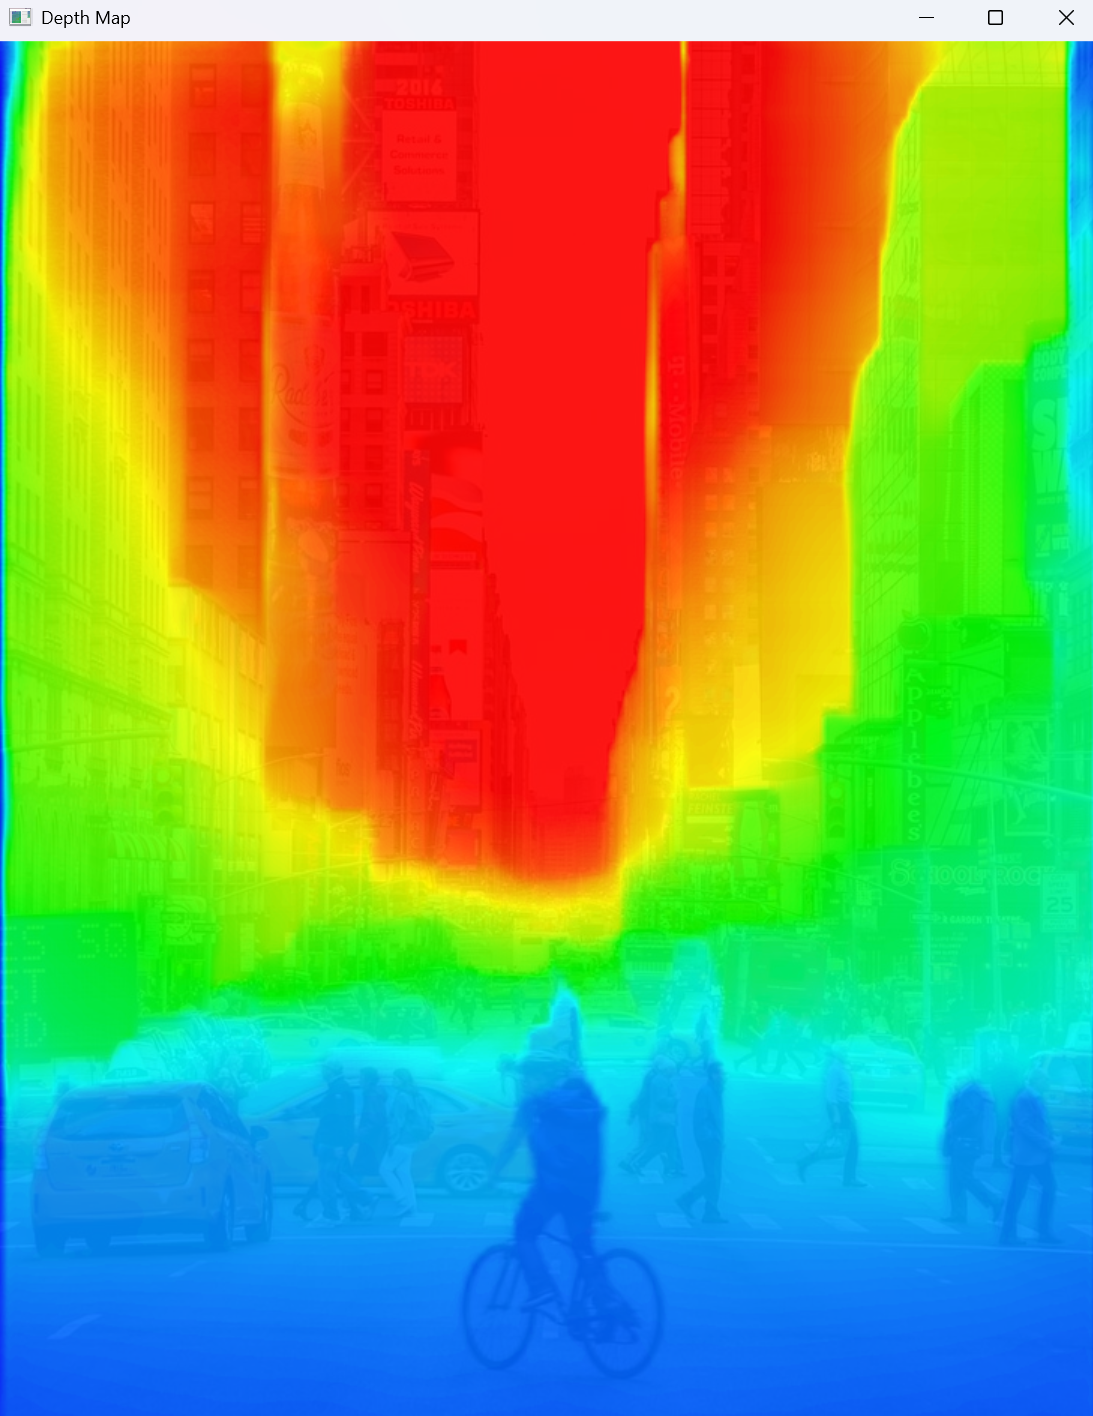
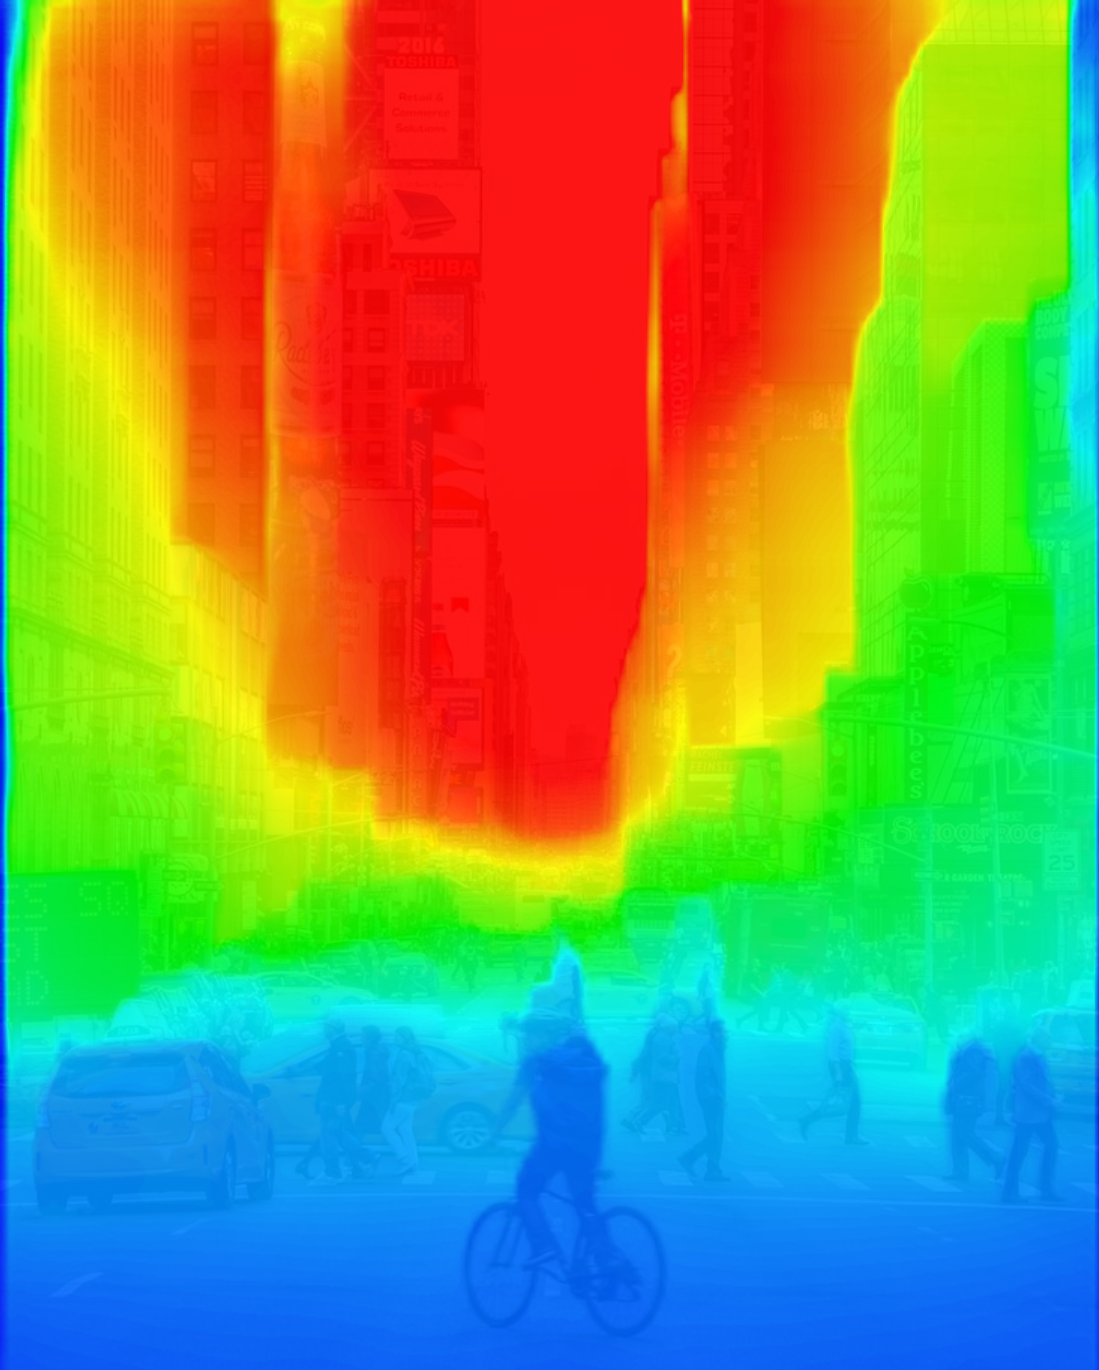
autoplot with opencv and to plot different colorpalette masks for depth estimation

diff --git a/08_depth_estimation_multi_color_mask.py b/08_depth_estimation_multi_color_mask.py
@@ -57,11 +57,12 @@ print("Normalized max:", depth_normalized.max())
 colored_depth_map = np.zeros_like(image)
 
 #lets make a colored gradient mask
-blue_region = (depth_normalized >= 0) & (depth_normalized <= 51) #so these are boolean masks with same shape as depth_normalized.with each element either True or False depending on whether the condition is satisfied or not. each mask target a different region of the depth map. blue is for closest object red for furthest yellow, green cyan in between.
-cyan_region = (depth_normalized >= 52) & (depth_normalized <= 102)
-green_region = (depth_normalized >= 103) & (depth_normalized <= 153)
-yellow_region = (depth_normalized >= 154) & (depth_normalized <= 204)
-red_region = (depth_normalized >= 205) & (depth_normalized <= 255)
+blue_region   = (depth_normalized >= 0)   & (depth_normalized <= 51) #so these are boolean masks with same shape as depth_normalized.with each element either True or False depending on whether the condition is satisfied or not. each mask target a different region of the depth map. blue is for closest object red for furthest yellow, green cyan in between.
+cyan_region   = (depth_normalized > 51)   & (depth_normalized <= 102)
+green_region  = (depth_normalized > 102)  & (depth_normalized <= 153)
+yellow_region = (depth_normalized > 153)  & (depth_normalized <= 204)
+red_region    = (depth_normalized > 204)  & (depth_normalized <= 255)
+
 # BLUE = [255, 0, 0]
 # CYAN = [255, 255, 0] here only green channel is being changed
 # GREEN = [0, 255, 0] here only blue channel is being changed
@@ -73,21 +74,22 @@ G = np.zeros_like(depth_normalized)
 R = np.zeros_like(depth_normalized)
 
 # Blue to Cyan transition
-G[blue_region] = depth_normalized[blue_region] * (255/51) # take the depth value where blue_region is True and select green channel pixels according to that blue region. The depth value is normalized from 0 to 51 so we multiply it by (255/51) to get the corresponding green channel value from 0 to 255
+G[blue_region] = depth_normalized[blue_region] * (255/51)# take the depth value where blue_region is True and select green channel pixels according to that blue region. The depth value is normalized from 0 to 51 so we multiply it by (255/51) to get the corresponding green channel value from 0 to 255
 B[blue_region] = 255
 R[blue_region] = 0
+
 # Cyan to Green transition
 G[cyan_region] = 255
-B[cyan_region] = 255 - (depth_normalized[cyan_region] - 52) * (255/51)  # I subtracted from 255 because it was transitoning from green to cyan
+B[cyan_region] = 255 - (depth_normalized[cyan_region] - 51) * (255/51) # I subtracted from 255 because it was transitoning from green to cyan
 R[cyan_region] = 0
 
-#Green to yellow transition
-G[green_region] = 255 
-B[green_region] = 0 
-R[green_region] = (depth_normalized[green_region] - 103) * (255/51)  
+# Green to Yellow transition
+G[green_region] = 255
+B[green_region] = 0
+R[green_region] = (depth_normalized[green_region] - 102) * (255/51)
 
 # Yellow to Red transition
-G[yellow_region] = 255 - (depth_normalized[yellow_region] - 154) * (255/51)
+G[yellow_region] = 255 - (depth_normalized[yellow_region] - 153) * (255/51)
 B[yellow_region] = 0
 R[yellow_region] = 255
 

diff --git a/09_autoplot_depth_estimation.py b/09_autoplot_depth_estimation.py
@@ -1,0 +1,43 @@
+# from ultralytics import YOLO
+# import cv2
+
+# image = cv2.imread("images/image1.jpg")
+# model = YOLO("yolo26n-depth.pt")
+# result = model(image)[0]
+
+# result.show() # opens a window with the depth overlay
+# # result.save("depth_overlay.png")  # or save it directly
+
+
+# or you can do the entire thing using opencv for more control over the output:
+
+from ultralytics import YOLO
+import cv2
+import numpy as np
+
+model = YOLO("yolo26n-depth.pt")
+image = cv2.imread("images/image1.jpg")
+
+results = model(image)
+result = results[0]
+
+depth_map = result.depth.data.cpu().numpy()  # (H, W) float32, meters
+
+# normalize to 0-255 uint8, same as before
+depth_normalized = cv2.normalize(depth_map, None, 0, 255, cv2.NORM_MINMAX).astype('uint8')
+
+# this single line replaces my entire manual blue_region/cyan_region/... block
+
+colored_depth_map = cv2.applyColorMap(depth_normalized, cv2.COLORMAP_JET)
+# colored_depth_map = cv2.applyColorMap(depth_normalized, cv2.COLORMAP_INFERNO)
+# colored_depth_map = cv2.applyColorMap(depth_normalized, cv2.COLORMAP_TURBO )
+# colored_depth_map = cv2.applyColorMap(depth_normalized, cv2.COLORMAP_VIRIDIS)
+# colored_depth_map = cv2.applyColorMap(depth_normalized, cv2.COLORMAP_MAGMA)
+
+
+# blend with original image, same as before
+output = cv2.addWeighted(image, 0.1, colored_depth_map, 0.9, 0)
+
+cv2.imshow("Depth Map", output)
+cv2.waitKey(0)
+cv2.destroyAllWindows()
